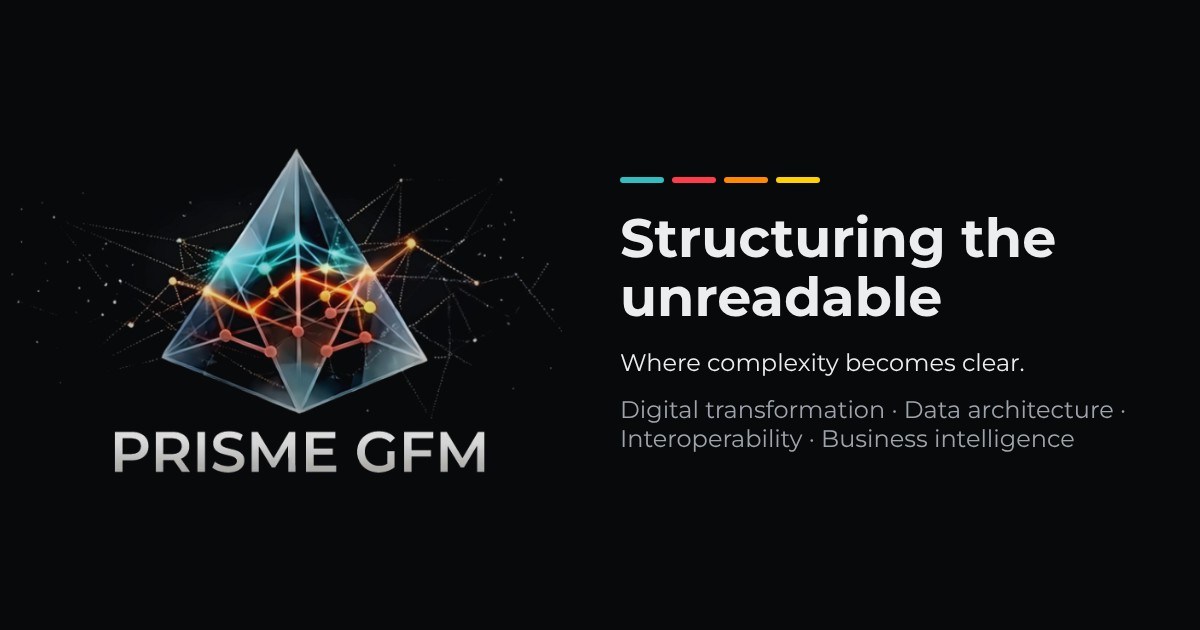
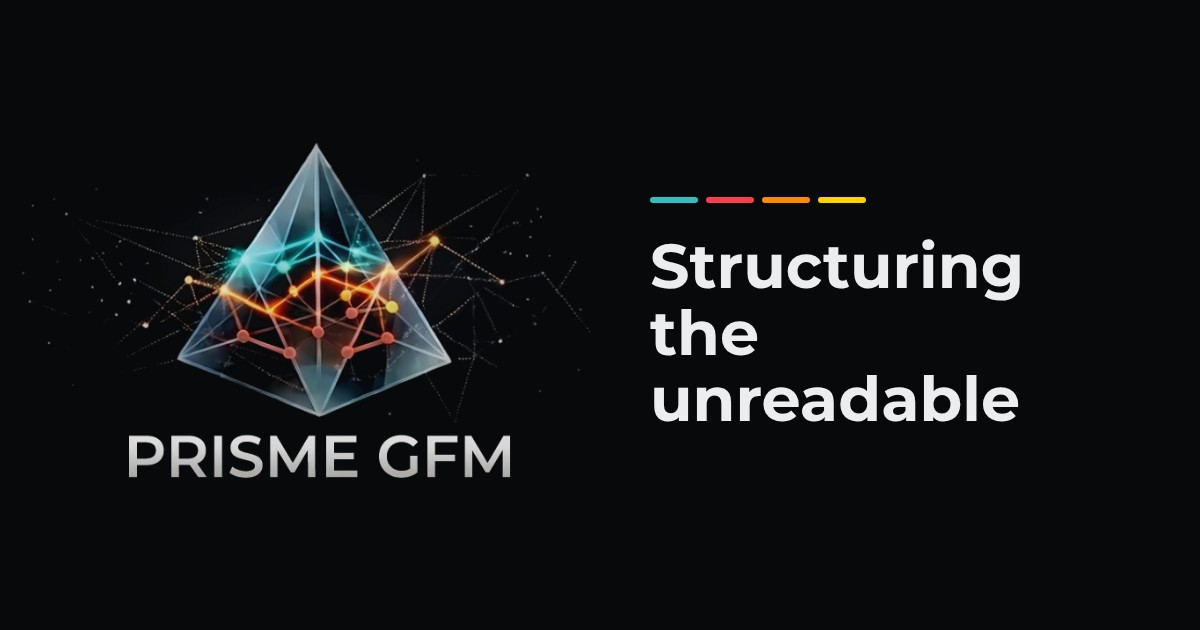
mage de partage, boutons de partage, mobile

Changed region(s): [[0.4933, 0.2714, 0.925, 0.7238], [0.0925, 0.2413, 0.4317, 0.7841]]

diff --git a/index.html b/index.html
@@ -34,7 +34,7 @@
 
 <link rel="preload" href="assets/fonts/montserrat-latin-700-normal.woff2" as="font" type="font/woff2" crossorigin>
 <link rel="stylesheet" href="assets/style.css">
-<script type="application/ld+json">{"@context": "https://schema.org", "@graph": [{"@type": "ProfessionalService", "@id": "https://prismegfm.com/#org", "name": "Prisme GFM", "url": "https://prismegfm.com/", "inLanguage": "fr-CA", "slogan": "La structure de l'illisible", "description": "Prisme GFM accompagne la transformation numérique des organisations : plateformes, parcours, processus et données. 25 ans d'expérience. Montréal.", "logo": "https://prismegfm.com/assets/logo.jpg", "image": "https://prismegfm.com/assets/og-fr.jpg", "email": "genevieve@prismegfm.com", "address": {"@type": "PostalAddress", "addressLocality": "Montréal", "addressRegion": "QC", "addressCountry": "CA"}, "areaServed": [{"@type": "AdministrativeArea", "name": "Québec"}, {"@type": "Country", "name": "Canada"}, {"@type": "Country", "name": "France"}], "knowsAbout": ["Transformation numérique", "Architecture de données", "Interopérabilité", "Intelligence d'affaires", "Data spaces", "Schema.org", "Ontologies", "Découvrabilité", "Logiciel libre"], "founder": {"@id": "https://prismegfm.com/#genevieve"}, "hasOfferCatalog": {"@type": "OfferCatalog", "name": "Quatre offres", "itemListElement": [{"@type": "Offer", "itemOffered": {"@type": "Service", "name": "Optimiser", "description": "Plateformes · Parcours utilisateur · Processus"}}, {"@type": "Offer", "itemOffered": {"@type": "Service", "name": "Diagnostiquer", "description": "Écosystèmes numériques · Préparation à l'IA"}}, {"@type": "Offer", "itemOffered": {"@type": "Service", "name": "Structurer", "description": "Ontologies · Data spaces · Mutualisation"}}, {"@type": "Offer", "itemOffered": {"@type": "Service", "name": "Transmettre", "description": "Intelligence collective · pour ceux qui décident"}}]}}, {"@type": "Person", "@id": "https://prismegfm.com/#genevieve", "name": "Geneviève Fabio", "jobTitle": "Fondatrice et conseillère en transformation numérique", "worksFor": {"@id": "https://prismegfm.com/#org"}, "email": "genevieve@prismegfm.com", "sameAs": ["https://www.linkedin.com/in/genevieve-fabio"]}]}</script>
+<script type="application/ld+json">{"@context": "https://schema.org", "@graph": [{"@type": "ProfessionalService", "@id": "https://prismegfm.com/#org", "name": "Prisme GFM", "url": "https://prismegfm.com/", "slogan": "La structure de l'illisible", "description": "Prisme GFM accompagne la transformation numérique des organisations : plateformes, parcours, processus et données. 25 ans d'expérience. Montréal.", "logo": "https://prismegfm.com/assets/logo.jpg", "image": "https://prismegfm.com/assets/og-fr.jpg", "email": "genevieve@prismegfm.com", "address": {"@type": "PostalAddress", "addressLocality": "Montréal", "addressRegion": "QC", "addressCountry": "CA"}, "areaServed": [{"@type": "AdministrativeArea", "name": "Québec"}, {"@type": "Country", "name": "Canada"}, {"@type": "Country", "name": "France"}], "knowsAbout": ["Transformation numérique", "Architecture de données", "Interopérabilité", "Intelligence d'affaires", "Data spaces", "Schema.org", "Ontologies", "Découvrabilité", "Logiciel libre"], "founder": {"@id": "https://prismegfm.com/#genevieve"}, "hasOfferCatalog": {"@type": "OfferCatalog", "name": "Quatre offres", "itemListElement": [{"@type": "Offer", "itemOffered": {"@type": "Service", "name": "Optimiser", "description": "Plateformes · Parcours utilisateur · Processus"}}, {"@type": "Offer", "itemOffered": {"@type": "Service", "name": "Diagnostiquer", "description": "Écosystèmes numériques · Préparation à l'IA"}}, {"@type": "Offer", "itemOffered": {"@type": "Service", "name": "Structurer", "description": "Ontologies · Data spaces · Mutualisation"}}, {"@type": "Offer", "itemOffered": {"@type": "Service", "name": "Transmettre", "description": "Intelligence collective · pour ceux qui décident"}}]}}, {"@type": "WebPage", "@id": "https://prismegfm.com/#webpage", "url": "https://prismegfm.com/", "name": "Prisme GFM — La structure de l'illisible", "description": "Prisme GFM accompagne la transformation numérique des organisations : plateformes, parcours, processus et données. 25 ans d'expérience. Montréal.", "inLanguage": "fr-CA", "about": {"@id": "https://prismegfm.com/#org"}, "author": {"@id": "https://prismegfm.com/#genevieve"}}, {"@type": "Person", "@id": "https://prismegfm.com/#genevieve", "name": "Geneviève Fabio", "jobTitle": "Fondatrice et conseillère en transformation numérique", "worksFor": {"@id": "https://prismegfm.com/#org"}, "email": "genevieve@prismegfm.com", "sameAs": ["https://www.linkedin.com/in/genevieve-fabio"]}]}</script>
 <script src="assets/hero.js" defer></script>
 <script src="assets/site.js" defer></script>
 </head>
@@ -42,7 +42,7 @@
 <header><div class="wrap">
 <a class="brand" href="#top"><img src="assets/mark.png" alt="" width="30" height="30"> PRISME GFM</a>
 <button class="burger" type="button" aria-label="Menu" aria-expanded="false" aria-controls="menu"><span></span><span></span><span></span></button>
-<nav id="menu"><a href="#offres">Offres</a><a href="#methode">Méthode</a><a href="#realisations">Réalisations</a><a href="#contact">Contact</a><a class="lang" href="en/" hreflang="en" lang="en">EN</a></nav>
+<nav id="menu"><a href="#offres">Offres</a><a href="#methode">Méthode</a><a href="#realisations">Réalisations</a><a href="#contact">Contact</a><a class="lang" href="en/" hreflang="en" lang="en">EN</a><div class="share share-menu" data-url="https://prismegfm.com/" data-title="Prisme GFM — La structure de l'illisible"><span class="share-label">Partager</span><a class="sh" target="_blank" rel="noopener" href="https://www.linkedin.com/sharing/share-offsite/?url=https%3A%2F%2Fprismegfm.com%2F" aria-label="LinkedIn" title="LinkedIn"><svg viewBox="0 0 24 24" width="18" height="18" aria-hidden="true"><path fill="currentColor" d="M20.45 20.45h-3.56v-5.57c0-1.33-.02-3.04-1.85-3.04-1.85 0-2.14 1.45-2.14 2.94v5.67H9.35V9h3.41v1.56h.05c.48-.9 1.64-1.85 3.37-1.85 3.6 0 4.27 2.37 4.27 5.46v6.28zM5.34 7.43a2.06 2.06 0 1 1 0-4.13 2.06 2.06 0 0 1 0 4.13zM7.12 20.45H3.56V9h3.56v11.45zM22.22 0H1.77C.79 0 0 .77 0 1.73v20.54C0 23.23.79 24 1.77 24h20.45c.98 0 1.78-.77 1.78-1.73V1.73C24 .77 23.2 0 22.22 0z"/></svg></a><a class="sh" target="_blank" rel="noopener" href="https://www.facebook.com/sharer/sharer.php?u=https%3A%2F%2Fprismegfm.com%2F" aria-label="Facebook" title="Facebook"><svg viewBox="0 0 24 24" width="18" height="18" aria-hidden="true"><path fill="currentColor" d="M24 12.07C24 5.4 18.63 0 12 0S0 5.4 0 12.07C0 18.1 4.39 23.1 10.13 24v-8.44H7.08v-3.49h3.05V9.41c0-3.02 1.79-4.69 4.53-4.69 1.31 0 2.68.23 2.68.23v2.97h-1.51c-1.49 0-1.96.93-1.96 1.89v2.26h3.33l-.53 3.49h-2.8V24C19.61 23.1 24 18.1 24 12.07z"/></svg></a><a class="sh" href="mailto:?subject=Prisme%20GFM%20%E2%80%94%20La%20structure%20de%20l%27illisible&amp;body=https%3A%2F%2Fprismegfm.com%2F" aria-label="Partager par courriel" title="Partager par courriel"><svg viewBox="0 0 24 24" width="18" height="18" aria-hidden="true"><path fill="none" stroke="currentColor" stroke-width="1.8" d="M3 5.5h18v13H3z M3.5 6l8.5 7 8.5-7"/></svg></a><button class="sh copy" type="button" aria-label="Copier le lien" title="Copier le lien" data-done="Lien copié"><svg viewBox="0 0 24 24" width="18" height="18" aria-hidden="true"><path fill="none" stroke="currentColor" stroke-width="1.8" stroke-linecap="round" d="M10 14a4.5 4.5 0 0 0 6.4 0l3-3a4.5 4.5 0 0 0-6.4-6.4l-1 1M14 10a4.5 4.5 0 0 0-6.4 0l-3 3a4.5 4.5 0 0 0 6.4 6.4l1-1"/></svg></button><button class="sh native" type="button" aria-label="Partager" title="Partager" hidden><svg viewBox="0 0 24 24" width="18" height="18" aria-hidden="true"><path fill="none" stroke="currentColor" stroke-width="1.8" stroke-linecap="round" stroke-linejoin="round" d="M12 3v12M7 8l5-5 5 5M5 13v7h14v-7"/></svg></button></div></nav>
 </div></header>
 
 <main id="top">
@@ -128,7 +128,7 @@
 </div></div>
 <div class="logo-stage"><img src="assets/logo.webp" alt="" width="750" height="498" loading="lazy"></div>
 </div>
-<footer><div class="wrap"><span>© 2026 Prisme GFM · Montréal</span><span>Aucun témoin ni outil de suivi :<br class="m"> vos visites restent les vôtres.</span></div></footer>
+<footer><div class="wrap"><span>© 2026 Prisme GFM · Montréal</span><div class="share" data-url="https://prismegfm.com/" data-title="Prisme GFM — La structure de l'illisible"><span class="share-label">Partager</span><a class="sh" target="_blank" rel="noopener" href="https://www.linkedin.com/sharing/share-offsite/?url=https%3A%2F%2Fprismegfm.com%2F" aria-label="LinkedIn" title="LinkedIn"><svg viewBox="0 0 24 24" width="18" height="18" aria-hidden="true"><path fill="currentColor" d="M20.45 20.45h-3.56v-5.57c0-1.33-.02-3.04-1.85-3.04-1.85 0-2.14 1.45-2.14 2.94v5.67H9.35V9h3.41v1.56h.05c.48-.9 1.64-1.85 3.37-1.85 3.6 0 4.27 2.37 4.27 5.46v6.28zM5.34 7.43a2.06 2.06 0 1 1 0-4.13 2.06 2.06 0 0 1 0 4.13zM7.12 20.45H3.56V9h3.56v11.45zM22.22 0H1.77C.79 0 0 .77 0 1.73v20.54C0 23.23.79 24 1.77 24h20.45c.98 0 1.78-.77 1.78-1.73V1.73C24 .77 23.2 0 22.22 0z"/></svg></a><a class="sh" target="_blank" rel="noopener" href="https://www.facebook.com/sharer/sharer.php?u=https%3A%2F%2Fprismegfm.com%2F" aria-label="Facebook" title="Facebook"><svg viewBox="0 0 24 24" width="18" height="18" aria-hidden="true"><path fill="currentColor" d="M24 12.07C24 5.4 18.63 0 12 0S0 5.4 0 12.07C0 18.1 4.39 23.1 10.13 24v-8.44H7.08v-3.49h3.05V9.41c0-3.02 1.79-4.69 4.53-4.69 1.31 0 2.68.23 2.68.23v2.97h-1.51c-1.49 0-1.96.93-1.96 1.89v2.26h3.33l-.53 3.49h-2.8V24C19.61 23.1 24 18.1 24 12.07z"/></svg></a><a class="sh" href="mailto:?subject=Prisme%20GFM%20%E2%80%94%20La%20structure%20de%20l%27illisible&amp;body=https%3A%2F%2Fprismegfm.com%2F" aria-label="Partager par courriel" title="Partager par courriel"><svg viewBox="0 0 24 24" width="18" height="18" aria-hidden="true"><path fill="none" stroke="currentColor" stroke-width="1.8" d="M3 5.5h18v13H3z M3.5 6l8.5 7 8.5-7"/></svg></a><button class="sh copy" type="button" aria-label="Copier le lien" title="Copier le lien" data-done="Lien copié"><svg viewBox="0 0 24 24" width="18" height="18" aria-hidden="true"><path fill="none" stroke="currentColor" stroke-width="1.8" stroke-linecap="round" d="M10 14a4.5 4.5 0 0 0 6.4 0l3-3a4.5 4.5 0 0 0-6.4-6.4l-1 1M14 10a4.5 4.5 0 0 0-6.4 0l-3 3a4.5 4.5 0 0 0 6.4 6.4l1-1"/></svg></button><button class="sh native" type="button" aria-label="Partager" title="Partager" hidden><svg viewBox="0 0 24 24" width="18" height="18" aria-hidden="true"><path fill="none" stroke="currentColor" stroke-width="1.8" stroke-linecap="round" stroke-linejoin="round" d="M12 3v12M7 8l5-5 5 5M5 13v7h14v-7"/></svg></button></div><span>Aucun témoin ni outil de suivi :<br class="m"> vos visites restent les vôtres.</span></div></footer>
 </section>
 </main>
 

diff --git a/en/index.html b/en/index.html
@@ -34,7 +34,7 @@
 
 <link rel="preload" href="../assets/fonts/montserrat-latin-700-normal.woff2" as="font" type="font/woff2" crossorigin>
 <link rel="stylesheet" href="../assets/style.css">
-<script type="application/ld+json">{"@context": "https://schema.org", "@graph": [{"@type": "ProfessionalService", "@id": "https://prismegfm.com/#org", "name": "Prisme GFM", "url": "https://prismegfm.com/en/", "inLanguage": "en-CA", "slogan": "Structuring the unreadable", "description": "Where complexity becomes clear. Prisme GFM helps organizations navigate digital transformation: platforms, user journeys, processes and data. 25 years of experience, based in Montréal.", "logo": "https://prismegfm.com/assets/logo.jpg", "image": "https://prismegfm.com/assets/og-en.jpg", "email": "genevieve@prismegfm.com", "address": {"@type": "PostalAddress", "addressLocality": "Montréal", "addressRegion": "QC", "addressCountry": "CA"}, "areaServed": [{"@type": "AdministrativeArea", "name": "Québec"}, {"@type": "Country", "name": "Canada"}, {"@type": "Country", "name": "France"}], "knowsAbout": ["Digital transformation", "Data architecture", "Interoperability", "Business intelligence", "Data spaces", "Schema.org", "Ontologies", "Discoverability", "Open source"], "founder": {"@id": "https://prismegfm.com/#genevieve"}, "hasOfferCatalog": {"@type": "OfferCatalog", "name": "Four services", "itemListElement": [{"@type": "Offer", "itemOffered": {"@type": "Service", "name": "Optimize", "description": "Platforms · User experience · Processes"}}, {"@type": "Offer", "itemOffered": {"@type": "Service", "name": "Assess", "description": "Digital ecosystems · AI readiness"}}, {"@type": "Offer", "itemOffered": {"@type": "Service", "name": "Structure", "description": "Ontologies · Data spaces · Data pooling"}}, {"@type": "Offer", "itemOffered": {"@type": "Service", "name": "Share", "description": "Collective intelligence for decision-makers"}}]}}, {"@type": "Person", "@id": "https://prismegfm.com/#genevieve", "name": "Geneviève Fabio", "jobTitle": "Founder and digital transformation advisor", "worksFor": {"@id": "https://prismegfm.com/#org"}, "email": "genevieve@prismegfm.com", "sameAs": ["https://www.linkedin.com/in/genevieve-fabio"]}]}</script>
+<script type="application/ld+json">{"@context": "https://schema.org", "@graph": [{"@type": "ProfessionalService", "@id": "https://prismegfm.com/#org", "name": "Prisme GFM", "url": "https://prismegfm.com/", "slogan": "Structuring the unreadable", "description": "Where complexity becomes clear. Prisme GFM helps organizations navigate digital transformation: platforms, user journeys, processes and data. 25 years of experience, based in Montréal.", "logo": "https://prismegfm.com/assets/logo.jpg", "image": "https://prismegfm.com/assets/og-en.jpg", "email": "genevieve@prismegfm.com", "address": {"@type": "PostalAddress", "addressLocality": "Montréal", "addressRegion": "QC", "addressCountry": "CA"}, "areaServed": [{"@type": "AdministrativeArea", "name": "Québec"}, {"@type": "Country", "name": "Canada"}, {"@type": "Country", "name": "France"}], "knowsAbout": ["Digital transformation", "Data architecture", "Interoperability", "Business intelligence", "Data spaces", "Schema.org", "Ontologies", "Discoverability", "Open source"], "founder": {"@id": "https://prismegfm.com/#genevieve"}, "hasOfferCatalog": {"@type": "OfferCatalog", "name": "Four services", "itemListElement": [{"@type": "Offer", "itemOffered": {"@type": "Service", "name": "Optimize", "description": "Platforms · User experience · Processes"}}, {"@type": "Offer", "itemOffered": {"@type": "Service", "name": "Assess", "description": "Digital ecosystems · AI readiness"}}, {"@type": "Offer", "itemOffered": {"@type": "Service", "name": "Structure", "description": "Ontologies · Data spaces · Data pooling"}}, {"@type": "Offer", "itemOffered": {"@type": "Service", "name": "Share", "description": "Collective intelligence for decision-makers"}}]}}, {"@type": "WebPage", "@id": "https://prismegfm.com/en/#webpage", "url": "https://prismegfm.com/en/", "name": "Prisme GFM — Structuring the unreadable", "description": "Where complexity becomes clear. Prisme GFM helps organizations navigate digital transformation: platforms, user journeys, processes and data. 25 years of experience, based in Montréal.", "inLanguage": "en-CA", "about": {"@id": "https://prismegfm.com/#org"}, "author": {"@id": "https://prismegfm.com/#genevieve"}}, {"@type": "Person", "@id": "https://prismegfm.com/#genevieve", "name": "Geneviève Fabio", "jobTitle": "Founder and digital transformation advisor", "worksFor": {"@id": "https://prismegfm.com/#org"}, "email": "genevieve@prismegfm.com", "sameAs": ["https://www.linkedin.com/in/genevieve-fabio"]}]}</script>
 <script src="../assets/hero.js" defer></script>
 <script src="../assets/site.js" defer></script>
 </head>
@@ -42,7 +42,7 @@
 <header><div class="wrap">
 <a class="brand" href="#top"><img src="../assets/mark.png" alt="" width="30" height="30"> PRISME GFM</a>
 <button class="burger" type="button" aria-label="Menu" aria-expanded="false" aria-controls="menu"><span></span><span></span><span></span></button>
-<nav id="menu"><a href="#offres">Services</a><a href="#methode">Method</a><a href="#realisations">Work</a><a href="#contact">Contact</a><a class="lang" href="../" hreflang="fr" lang="fr">FR</a></nav>
+<nav id="menu"><a href="#offres">Services</a><a href="#methode">Method</a><a href="#realisations">Work</a><a href="#contact">Contact</a><a class="lang" href="../" hreflang="fr" lang="fr">FR</a><div class="share share-menu" data-url="https://prismegfm.com/en/" data-title="Prisme GFM — Structuring the unreadable"><span class="share-label">Share</span><a class="sh" target="_blank" rel="noopener" href="https://www.linkedin.com/sharing/share-offsite/?url=https%3A%2F%2Fprismegfm.com%2Fen%2F" aria-label="LinkedIn" title="LinkedIn"><svg viewBox="0 0 24 24" width="18" height="18" aria-hidden="true"><path fill="currentColor" d="M20.45 20.45h-3.56v-5.57c0-1.33-.02-3.04-1.85-3.04-1.85 0-2.14 1.45-2.14 2.94v5.67H9.35V9h3.41v1.56h.05c.48-.9 1.64-1.85 3.37-1.85 3.6 0 4.27 2.37 4.27 5.46v6.28zM5.34 7.43a2.06 2.06 0 1 1 0-4.13 2.06 2.06 0 0 1 0 4.13zM7.12 20.45H3.56V9h3.56v11.45zM22.22 0H1.77C.79 0 0 .77 0 1.73v20.54C0 23.23.79 24 1.77 24h20.45c.98 0 1.78-.77 1.78-1.73V1.73C24 .77 23.2 0 22.22 0z"/></svg></a><a class="sh" target="_blank" rel="noopener" href="https://www.facebook.com/sharer/sharer.php?u=https%3A%2F%2Fprismegfm.com%2Fen%2F" aria-label="Facebook" title="Facebook"><svg viewBox="0 0 24 24" width="18" height="18" aria-hidden="true"><path fill="currentColor" d="M24 12.07C24 5.4 18.63 0 12 0S0 5.4 0 12.07C0 18.1 4.39 23.1 10.13 24v-8.44H7.08v-3.49h3.05V9.41c0-3.02 1.79-4.69 4.53-4.69 1.31 0 2.68.23 2.68.23v2.97h-1.51c-1.49 0-1.96.93-1.96 1.89v2.26h3.33l-.53 3.49h-2.8V24C19.61 23.1 24 18.1 24 12.07z"/></svg></a><a class="sh" href="mailto:?subject=Prisme%20GFM%20%E2%80%94%20Structuring%20the%20unreadable&amp;body=https%3A%2F%2Fprismegfm.com%2Fen%2F" aria-label="Share by email" title="Share by email"><svg viewBox="0 0 24 24" width="18" height="18" aria-hidden="true"><path fill="none" stroke="currentColor" stroke-width="1.8" d="M3 5.5h18v13H3z M3.5 6l8.5 7 8.5-7"/></svg></a><button class="sh copy" type="button" aria-label="Copy link" title="Copy link" data-done="Link copied"><svg viewBox="0 0 24 24" width="18" height="18" aria-hidden="true"><path fill="none" stroke="currentColor" stroke-width="1.8" stroke-linecap="round" d="M10 14a4.5 4.5 0 0 0 6.4 0l3-3a4.5 4.5 0 0 0-6.4-6.4l-1 1M14 10a4.5 4.5 0 0 0-6.4 0l-3 3a4.5 4.5 0 0 0 6.4 6.4l1-1"/></svg></button><button class="sh native" type="button" aria-label="Share" title="Share" hidden><svg viewBox="0 0 24 24" width="18" height="18" aria-hidden="true"><path fill="none" stroke="currentColor" stroke-width="1.8" stroke-linecap="round" stroke-linejoin="round" d="M12 3v12M7 8l5-5 5 5M5 13v7h14v-7"/></svg></button></div></nav>
 </div></header>
 
 <main id="top">
@@ -128,7 +128,7 @@
 </div></div>
 <div class="logo-stage"><img src="../assets/logo.webp" alt="" width="750" height="498" loading="lazy"></div>
 </div>
-<footer><div class="wrap"><span>© 2026 Prisme GFM · Montréal</span><span>No cookies, no tracking:<br class="m"> your visits are your own.</span></div></footer>
+<footer><div class="wrap"><span>© 2026 Prisme GFM · Montréal</span><div class="share" data-url="https://prismegfm.com/en/" data-title="Prisme GFM — Structuring the unreadable"><span class="share-label">Share</span><a class="sh" target="_blank" rel="noopener" href="https://www.linkedin.com/sharing/share-offsite/?url=https%3A%2F%2Fprismegfm.com%2Fen%2F" aria-label="LinkedIn" title="LinkedIn"><svg viewBox="0 0 24 24" width="18" height="18" aria-hidden="true"><path fill="currentColor" d="M20.45 20.45h-3.56v-5.57c0-1.33-.02-3.04-1.85-3.04-1.85 0-2.14 1.45-2.14 2.94v5.67H9.35V9h3.41v1.56h.05c.48-.9 1.64-1.85 3.37-1.85 3.6 0 4.27 2.37 4.27 5.46v6.28zM5.34 7.43a2.06 2.06 0 1 1 0-4.13 2.06 2.06 0 0 1 0 4.13zM7.12 20.45H3.56V9h3.56v11.45zM22.22 0H1.77C.79 0 0 .77 0 1.73v20.54C0 23.23.79 24 1.77 24h20.45c.98 0 1.78-.77 1.78-1.73V1.73C24 .77 23.2 0 22.22 0z"/></svg></a><a class="sh" target="_blank" rel="noopener" href="https://www.facebook.com/sharer/sharer.php?u=https%3A%2F%2Fprismegfm.com%2Fen%2F" aria-label="Facebook" title="Facebook"><svg viewBox="0 0 24 24" width="18" height="18" aria-hidden="true"><path fill="currentColor" d="M24 12.07C24 5.4 18.63 0 12 0S0 5.4 0 12.07C0 18.1 4.39 23.1 10.13 24v-8.44H7.08v-3.49h3.05V9.41c0-3.02 1.79-4.69 4.53-4.69 1.31 0 2.68.23 2.68.23v2.97h-1.51c-1.49 0-1.96.93-1.96 1.89v2.26h3.33l-.53 3.49h-2.8V24C19.61 23.1 24 18.1 24 12.07z"/></svg></a><a class="sh" href="mailto:?subject=Prisme%20GFM%20%E2%80%94%20Structuring%20the%20unreadable&amp;body=https%3A%2F%2Fprismegfm.com%2Fen%2F" aria-label="Share by email" title="Share by email"><svg viewBox="0 0 24 24" width="18" height="18" aria-hidden="true"><path fill="none" stroke="currentColor" stroke-width="1.8" d="M3 5.5h18v13H3z M3.5 6l8.5 7 8.5-7"/></svg></a><button class="sh copy" type="button" aria-label="Copy link" title="Copy link" data-done="Link copied"><svg viewBox="0 0 24 24" width="18" height="18" aria-hidden="true"><path fill="none" stroke="currentColor" stroke-width="1.8" stroke-linecap="round" d="M10 14a4.5 4.5 0 0 0 6.4 0l3-3a4.5 4.5 0 0 0-6.4-6.4l-1 1M14 10a4.5 4.5 0 0 0-6.4 0l-3 3a4.5 4.5 0 0 0 6.4 6.4l1-1"/></svg></button><button class="sh native" type="button" aria-label="Share" title="Share" hidden><svg viewBox="0 0 24 24" width="18" height="18" aria-hidden="true"><path fill="none" stroke="currentColor" stroke-width="1.8" stroke-linecap="round" stroke-linejoin="round" d="M12 3v12M7 8l5-5 5 5M5 13v7h14v-7"/></svg></button></div><span>No cookies, no tracking:<br class="m"> your visits are your own.</span></div></footer>
 </section>
 </main>
 

diff --git a/assets/style.css b/assets/style.css
@@ -297,3 +297,41 @@ html[lang="en"] .hero h1{font-size:clamp(38px,4.3vw,56px)}
 @media(max-width:390px){#methode table td:nth-child(2){font-size:12.5px;padding-left:9px}}
 #methode td:nth-child(2){white-space:nowrap}
 @media(max-width:370px){#methode table td:nth-child(2){font-size:11.5px;padding-left:7px;padding-right:4px}}
+
+/* Partage */
+.share{display:flex;align-items:center;gap:6px}
+.share-label{font-size:12px;letter-spacing:.08em;text-transform:uppercase;color:var(--gris);margin-right:4px}
+.sh{display:inline-flex;align-items:center;justify-content:center;width:34px;height:34px;border-radius:50%;border:.5px solid var(--ligne);background:none;color:var(--gris);cursor:pointer;text-decoration:none;transition:color .2s,border-color .2s;position:relative}
+.sh:hover{color:var(--encre)}
+.share .sh:nth-of-type(1):hover{border-color:var(--bleu);color:var(--bleu)}
+.share .sh:nth-of-type(2):hover{border-color:var(--rouge);color:var(--rouge)}
+.share .sh:nth-of-type(3):hover{border-color:var(--orange);color:var(--orange)}
+.share .sh:nth-of-type(4):hover{border-color:var(--jaune);color:var(--jaune)}
+.sh.copy.ok::after{content:attr(data-done);position:absolute;bottom:42px;left:50%;transform:translateX(-50%);white-space:nowrap;font-size:12px;background:var(--carte);border:1px solid var(--ligne);color:var(--encre);padding:4px 8px;border-radius:4px}
+footer .wrap{align-items:center}
+.share-menu{display:none}
+@media(max-width:820px){
+ footer .share{display:none}
+ .share-menu{display:flex;flex-wrap:wrap;justify-content:center;gap:12px;margin-top:8px}
+ .share-menu .share-label{width:100%;text-align:center;margin:0 0 4px}
+ .share-menu .sh{width:44px;height:44px}
+ .share-menu .sh svg{width:20px;height:20px}
+}
+@media(min-width:821px){nav .share-menu{display:none}}
+.contact .share a.sh{border:.5px solid var(--ligne)}
+nav .share a.sh{display:inline-flex;color:var(--gris)}
+/* Accueil mobile resserré : tout tient dans un écran d'iPhone, axes compacts */
+@media(max-width:900px){
+ .hero{padding:8px 0 28px}
+ .hero .logo-stage.prism-only{width:80%;margin:0 auto}
+ .hero .wrap{gap:6px}
+ .hero .kicker{margin-bottom:8px;font-size:11px}
+ .hero h1{font-size:clamp(34px,10vw,42px);margin-bottom:14px}
+ .hero .lead{font-size:15px;line-height:1.5;margin-bottom:20px;max-width:340px}
+ .hero .btn{padding:12px 26px}
+ .hero .words{gap:4px;margin-top:18px}
+ .hero .words li{font-size:14px;letter-spacing:.05em}
+}
+@media(max-width:900px){.hero .logo-stage.prism-only{width:72%}.hero{padding-top:0}}
+@media(max-width:900px){.hero{align-items:flex-start;padding-top:10px}.hero .logo-stage.prism-only{width:82%}}
+footer .share .sh.native{display:none!important}

diff --git a/assets/site.js b/assets/site.js
@@ -19,3 +19,17 @@ document.addEventListener('click', function (e) {
   document.querySelectorAll('#menu a').forEach(function (a) { a.addEventListener('click', function () { set(false); }); });
   document.addEventListener('keydown', function (e) { if (e.key === 'Escape') set(false); });
 })();
+
+/* Partage : copier le lien, partage natif sur mobile (aucun script tiers) */
+document.querySelectorAll('.share').forEach(function (box) {
+  var url = box.dataset.url, title = box.dataset.title;
+  var copy = box.querySelector('.copy'), nat = box.querySelector('.native');
+  if (copy) copy.addEventListener('click', function () {
+    var done = function () { copy.classList.add('ok'); setTimeout(function () { copy.classList.remove('ok'); }, 1800); };
+    try { navigator.clipboard.writeText(url).then(done, done); } catch (e) { done(); }
+  });
+  if (nat && navigator.share) {
+    nat.hidden = false;
+    nat.addEventListener('click', function () { navigator.share({ title: title, url: url }).catch(function () {}); });
+  }
+});

diff --git a/README.md b/README.md
@@ -6,7 +6,8 @@ Site statique bilingue de Prisme GFM (HTML + CSS, aucun framework, aucun traceur
 - `en/index.html` : anglais
 - `assets/style.css` : styles et palette (bleu #32BEC1, rouge #FF3D4A, orange #FF8A00, jaune #FFD100)
 - `assets/fonts/` : Montserrat hébergée localement (licence OFL), donc aucun appel à Google Fonts
-- `assets/hero.js` : animation du logo (s'arrête hors écran et respecte le réglage « réduire les animations »)
+- `assets/site.js` : menu mobile, ancres, boutons de partage (sans script tiers)
+- `assets/hero.js` : animation du logo, en boucle (respecte le réglage « réduire les animations »)
 - `assets/og-fr.jpg`, `og-en.jpg` : images d'aperçu pour LinkedIn et les messageries
 - `CNAME` : le domaine utilisé par GitHub Pages
 
